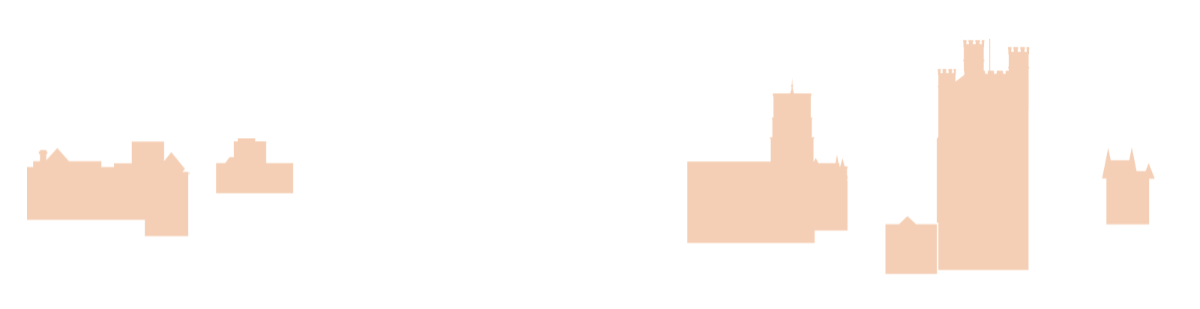
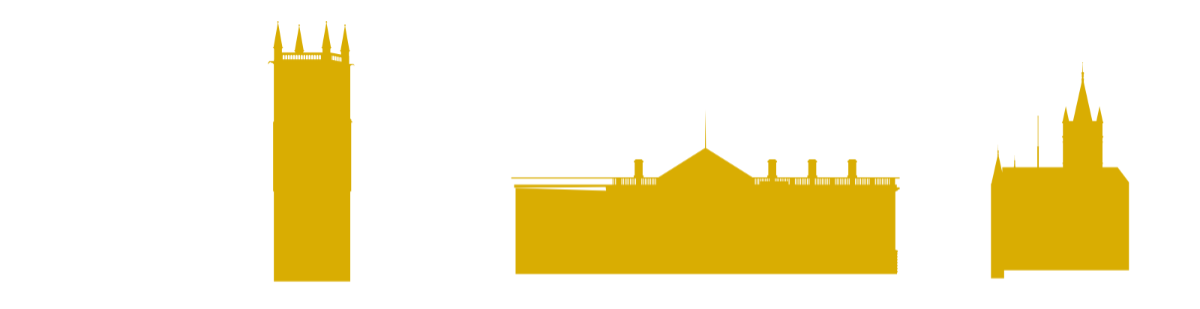
Disabling AOS

diff --git a/src/Pages/About.svelte b/src/Pages/About.svelte
@@ -17,19 +17,21 @@
    })
   .catch(console.error);
 
-  const layers = [1, 2, 3, 4];
+  const layers = [0, 1, 2, 3];
 
   let y;
 
-  onMount(() => {
-    AOS.init();
-  });
+  // onMount(() => {
+  //   AOS.init();
+  // });
 
 </script>
 
 <svelte:window bind:scrollY={y}/>
 
 {#if $pageData}
+
+  <h1>About</h1>
 
   <div class="parallax-container">
     {#each layers as layer}
@@ -94,8 +96,19 @@
   .copy {
     width: 66.6666%; margin: 0 auto 6rem;
   }
+}
 
+@media (min-width: 1024px) {
+	.parallax-container {
+		width: 964px;
+	}
+}
 
+@media (min-width: 1367px) {
+	.parallax-container {
+		width: 1140px;
+    margin-bottom: 4rem;
+	}
 }
   
   </style>
